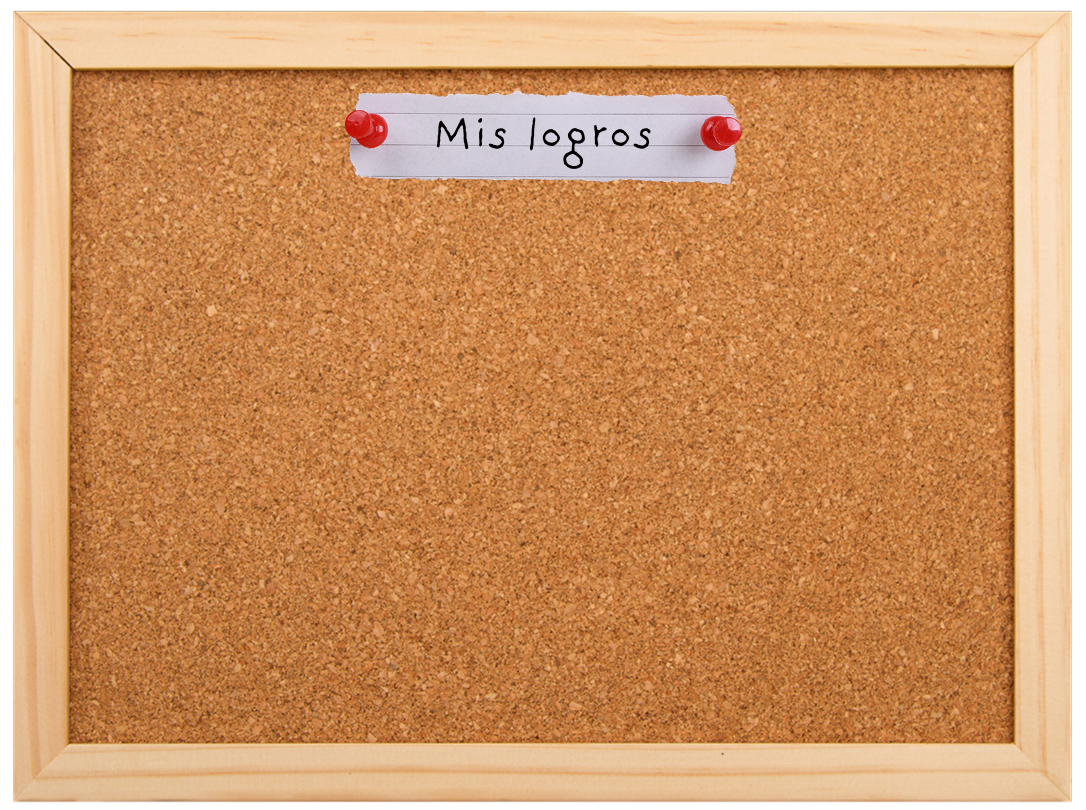
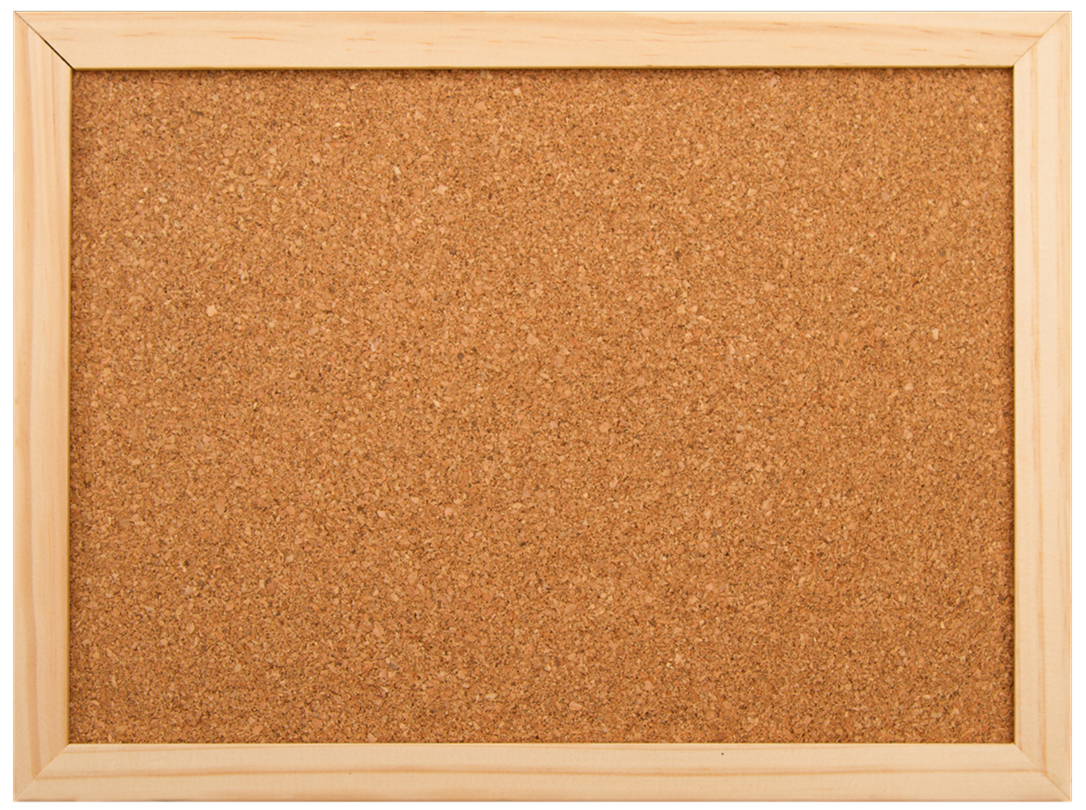
responsive Logros OK

Changed region(s): [[0.3039, 0.0926, 0.6989, 0.2469]]

diff --git a/bookly/resources/css/app.css b/bookly/resources/css/app.css
@@ -501,6 +501,34 @@ body {
     transform: scale(1.03);
 }
 
+@media (max-width: 991.98px) {
+    .corcho-container,
+    .notebook-container {
+        min-height: auto !important;
+        height: auto !important;
+    }
+
+    .corcho-content {
+        padding-top: 2rem !important;
+    }
+
+    .notebook-content {
+        margin-bottom: 0 !important;
+        padding: 2rem;
+    }
+
+    .book-cover {
+        width: 23% !important;
+        margin-bottom: 1rem;
+    }
+}
+
+@media (max-width: 767.98px) {
+    .book-cover {
+        width: 48% !important;
+    }
+}
+
 /*******************MIS LISTAS*******************/
 .lists-container {
     position: relative;
@@ -1263,6 +1291,56 @@ input[type="file"]::-moz-focus-inner {
     right: 10px;
     cursor: pointer;
     font-size: 1.5rem;
+}
+
+/* TABLET */
+@media (min-width: 768px) and (max-width: 991.98px) {
+    .container-logros {
+        margin-top: 5%;
+        padding: 0;
+    }
+    .logros-grid {
+        grid-template-columns: repeat(3, 1fr);
+    }
+    .logros-container {
+        background-image: url("/public/img/logros/corcho.png");
+        background-size: cover;
+        min-height: 100vh;
+        min-width: 100vw;
+
+    }
+    .logro-imagen {
+        max-width: 100%;
+    }
+}
+
+@media (max-width: 767.98px) {
+    
+    .logro-imagen {
+        max-width: 100%;
+    }
+    
+    .corcho-background {
+        background-size: cover;
+    }
+    
+    .titulo-logros img {
+        max-width: 100%;
+        display: block;
+    }
+        
+    .logros-grid {
+        grid-template-columns: repeat(2, 1fr);
+        max-width: 100vw;
+    }
+
+    .logros-container {
+        background-image: url("/public/img/logros/corcho.png");
+        background-size: cover;
+        min-width: 100%;
+        padding-top: 20%;
+        padding-bottom: 20%;
+    }
 }
 
 /*******************FICHA LIBRO *******************/

diff --git a/bookly/resources/views/profile/show.blade.php b/bookly/resources/views/profile/show.blade.php
@@ -1,9 +1,9 @@
 @extends('layouts.app')
 @section('content')
-<div class="container-fluid" style="overflow: hidden;">
+<div class="container-fluid px-0" style="overflow: hidden; max-width: 1600px; margin: 0 auto;">
     <div class="row g-0" style="overflow: hidden;">
         <!-- Columna Corcho -->
-        <div class="col-md-6 corcho-container position-relative">
+        <div class="col-12 col-lg-6 corcho-container position-relative">
             <div class="welcome-banner d-flex flex-column align-items-center justify-content-center">
                 <div style="margin-left: 20%; margin-top: -7%; transform: rotate(-9deg);">
                     <h2 class="m-0">¡Hola, <br>{{ Auth::user()->name }}!</h2>
@@ -69,7 +69,7 @@
         </div>
 
         <!-- Columna Libreta -->
-        <div class="col-md-6 notebook-container">
+        <div class="col-12 col-lg-6 notebook-container">
             <div class="notebook-content h-100 d-flex flex-column" style="margin-bottom: -10%;">
                 <!-- Fila 1: Búsqueda -->
                 <div class="notebook-row search-row mb-4">

diff --git a/bookly/resources/views/logros/index.blade.php b/bookly/resources/views/logros/index.blade.php
@@ -2,13 +2,18 @@
 
 @section('content')
 <!-- Botón de volver -->
-<a href="{{ route('perfil') }}" class="position-fixed" style="top: 100px; left: 40px; z-index: 1000;">
+<a href="{{ route('perfil') }}" class="position-fixed d-none d-lg-block" style="top: 100px; left: 40px; z-index: 1000;">
     <img src="{{ asset('img/elementos/volver.png') }}" alt="Volver" width="40" class="volver">
 </a>
 
-<div class="container px-4 py-8 mx-auto">
-    <!-- Contenedor principal -->
-    <div class="logros-container">
+<div class="container-fluid container-lg">
+    <!-- Contenedor principal con fondo de corcho -->
+    <div class="logros-container position-relative">
+        <!-- Fondo de corcho responsivo -->
+        <div class="corcho-background"></div>
+        <div class="titulo-logros text-center">
+            <img src="{{ asset('img/logros/titol.png') }}" alt="">
+        </div>
         <!-- Grid de logros -->
         <div class="logros-grid">
             @foreach($logros as $index => $logro)

diff --git a/bookly/resources/views/layouts/app.blade.php b/bookly/resources/views/layouts/app.blade.php
@@ -26,8 +26,8 @@
 
 <body class="font-sans antialiased">
 
-    <header style="position: fixed; top: 0; left: 0; width: 100%; z-index: 1000;">
-        <a href="{{ route('perfil') }}" class="volver-btn" style="position: absolute; top: 20px; left: 40px; z-index: 10;">
+    <header class="position-fixed bg-white w-100 top-0 start-0 z-3 py-2" style="height: 10%;">
+        <a href="{{ route('perfil') }}" class="volver-btn" style="position: absolute; top: 10px; left: 40px; z-index: 10;">
             <img src="{{ asset('img/elementos/bookly.png') }}" alt="Volver" style="width: 200px;">
         </a>
         @auth
@@ -48,7 +48,7 @@
         @endauth
     </header>
 
-    <main style="padding-top: 80px;"> @yield('content')
+    <main style="padding-top: 80px"> @yield('content')
     </main>
 
 
